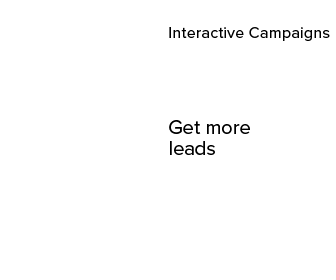
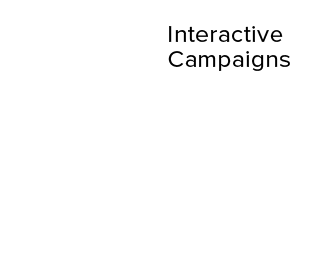
update

Changed region(s): [[0.4762, 0.0857, 0.9821, 0.2571], [0.506, 0.4286, 0.744, 0.4857], [0.506, 0.5143, 0.6548, 0.5714]]

diff --git a/theme01/336x280/Ad_edge.js b/theme01/336x280/Ad_edge.js
@@ -1,5 +1,5 @@
 
-(function(compId){var _=null,y=true,n=false,x1='6.0.0',x2='5.0.0',x4='rgba(0,0,0,0)',lf='left',g='image',e11='${_3}',x9='rgba(255,255,255,1)',tp='top',e12='${_4}',x3='6.0.0.400',o='opacity',e10='${_2}',i='none';var g7='3.png',g6='2.png',g5='theme.png',g8='4.png';var im='images/',aud='media/',vid='media/',js='js/',fonts={},opts={'gAudioPreloadPreference':'auto','gVideoPreloadPreference':'auto'},resources=[],scripts=[],symbols={"stage":{v:x1,mv:x2,b:x3,stf:i,cg:i,rI:n,cn:{dom:[{id:'theme',t:g,r:['0px','0px','336px','280px','auto','auto'],f:[x4,im+g5,'0px','0px']},{id:'_2',t:g,r:['-382px','0px','336px','280px','auto','auto'],o:'1',f:[x4,im+g6,'0px','0px']},{id:'_3',t:g,r:['393px','0px','336px','280px','auto','auto'],o:'1',f:[x4,im+g7,'0px','0px']},{id:'_4',t:g,r:['-377px','0px','336px','280px','auto','auto'],o:'0',f:[x4,im+g8,'0px','0px']}],style:{'${Stage}':{isStage:true,r:['null','null','336px','280px','auto','auto'],overflow:'hidden',f:[x9]}}},tt:{d:10750,a:y,l:{"loop":0},data:[["eid3",lf,0,500,"linear",e10,'-382px','0px'],["eid23",lf,9750,0,"linear",e10,'0px','0px'],["eid38",lf,10000,375,"linear",e10,'0px','-189px'],["eid42",o,10000,375,"linear",e10,'1','0'],["eid8",tp,405,0,"linear",e11,'0px','0px'],["eid30",tp,10250,0,"linear",e11,'0px','0px'],["eid2",tp,0,0,"linear",e10,'0px','0px'],["eid22",tp,9750,0,"linear",e10,'0px','0px'],["eid36",tp,10000,0,"linear",e10,'0px','0px'],["eid12",lf,855,345,"linear",e12,'-377px','0px'],["eid27",lf,10250,375,"linear",e12,'0px','247px'],["eid15",o,855,280,"linear",e12,'0.032519999891519547','1'],["eid16",o,1135,115,"linear",e12,'1','0'],["eid19",o,1305,95,"linear",e12,'0','1'],["eid20",o,1400,31,"linear",e12,'1','0'],["eid21",o,1431,27,"linear",e12,'0','1'],["eid28",o,10250,375,"linear",e12,'1','0'],["eid11",tp,855,0,"linear",e12,'0px','0px'],["eid25",tp,10250,0,"linear",e12,'0px','0px'],["eid34",o,10375,375,"linear",e11,'1','0'],["eid9",lf,405,595,"linear",e11,'393px','0px'],["eid31",lf,10375,375,"linear",e11,'0px','226px']]}}};AdobeEdge.registerCompositionDefn(compId,symbols,fonts,scripts,resources,opts);})("EDGE-56357387");
+(function(compId){var _=null,y=true,n=false,x1='6.0.0',x2='5.0.0',x4='rgba(0,0,0,0)',lf='left',g='image',e11='${_3}',x9='rgba(255,255,255,1)',tp='top',e12='${_4}',x3='6.0.0.400',o='opacity',e10='${_2}',i='none';var g7='3.png',g6='2.png',g5='theme.png',g8='4.png';var im='images/',aud='media/',vid='media/',js='js/',fonts={},opts={'gAudioPreloadPreference':'auto','gVideoPreloadPreference':'auto'},resources=[],scripts=[],symbols={"stage":{v:x1,mv:x2,b:x3,stf:i,cg:i,rI:n,cn:{dom:[{id:'theme',t:g,r:['0px','0px','336px','280px','auto','auto'],f:[x4,im+g5,'0px','0px']},{id:'_2',t:g,r:['-382px','0px','336px','280px','auto','auto'],o:'0.34959349593496',f:[x4,im+g6,'0px','0px']},{id:'_3',t:g,r:['393px','0px','336px','280px','auto','auto'],o:'1',f:[x4,im+g7,'0px','0px']},{id:'_4',t:g,r:['-377px','0px','336px','280px','auto','auto'],o:'0',f:[x4,im+g8,'0px','0px']}],style:{'${Stage}':{isStage:true,r:['null','null','336px','280px','auto','auto'],overflow:'hidden',f:[x9]}}},tt:{d:10750,a:y,l:{"loop":0},data:[["eid3",lf,0,750,"linear",e10,'-382px','0px'],["eid23",lf,9750,0,"linear",e10,'0px','0px'],["eid38",lf,10000,625,"linear",e10,'0px','-189px'],["eid43",o,0,750,"linear",e10,'0','1'],["eid42",o,10000,521,"linear",e10,'1','0.34959349593496'],["eid8",tp,405,0,"linear",e11,'0px','0px'],["eid30",tp,10250,0,"linear",e11,'0px','0px'],["eid2",tp,0,0,"linear",e10,'0px','0px'],["eid22",tp,9750,0,"linear",e10,'0px','0px'],["eid36",tp,10000,0,"linear",e10,'0px','0px'],["eid12",lf,855,345,"linear",e12,'-377px','0px'],["eid27",lf,10250,375,"linear",e12,'0px','247px'],["eid15",o,855,280,"linear",e12,'0.032519999891519547','1'],["eid16",o,1135,115,"linear",e12,'1','0'],["eid19",o,1305,95,"linear",e12,'0','1'],["eid20",o,1400,31,"linear",e12,'1','0'],["eid21",o,1431,27,"linear",e12,'0','1'],["eid28",o,10250,375,"linear",e12,'1','0'],["eid11",tp,855,0,"linear",e12,'0px','0px'],["eid25",tp,10250,0,"linear",e12,'0px','0px'],["eid34",o,10375,375,"linear",e11,'1','0'],["eid9",lf,405,595,"linear",e11,'393px','0px'],["eid31",lf,10375,375,"linear",e11,'0px','226px']]}}};AdobeEdge.registerCompositionDefn(compId,symbols,fonts,scripts,resources,opts);})("EDGE-56357387");
 (function($,Edge,compId){var Composition=Edge.Composition,Symbol=Edge.Symbol;Edge.registerEventBinding(compId,function($){
 //Edge symbol: 'stage'
 (function(symbolName){Symbol.bindTriggerAction(compId,symbolName,"Default Timeline",10750,function(sym,e){sym.play("loop")});

diff --git a/theme01/336x280/Ad.html b/theme01/336x280/Ad.html
@@ -5,7 +5,7 @@
 	<meta http-equiv="X-UA-Compatible" content="IE=Edge"/>
 	<title>Untitled</title>
 <!--Adobe Edge Runtime-->
-    <script type="text/javascript" charset="utf-8" src="https://animate.adobe.com/runtime/6.0.0/edge.6.0.0.min.js"></script>
+    <script type="text/javascript" charset="utf-8" src="http://animate.adobe.com/runtime/6.0.0/edge.6.0.0.min.js"></script>
     <style>
         .edgeLoad-EDGE-56357387 { visibility:hidden; }
     </style>
